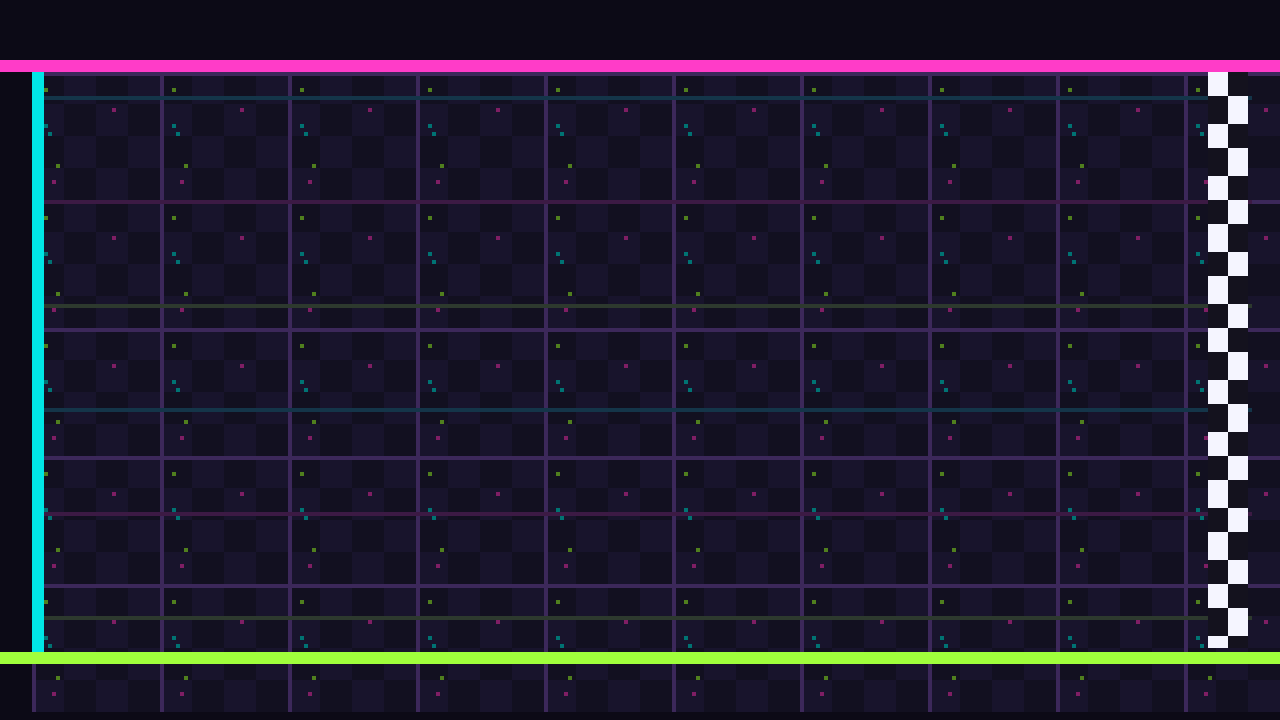
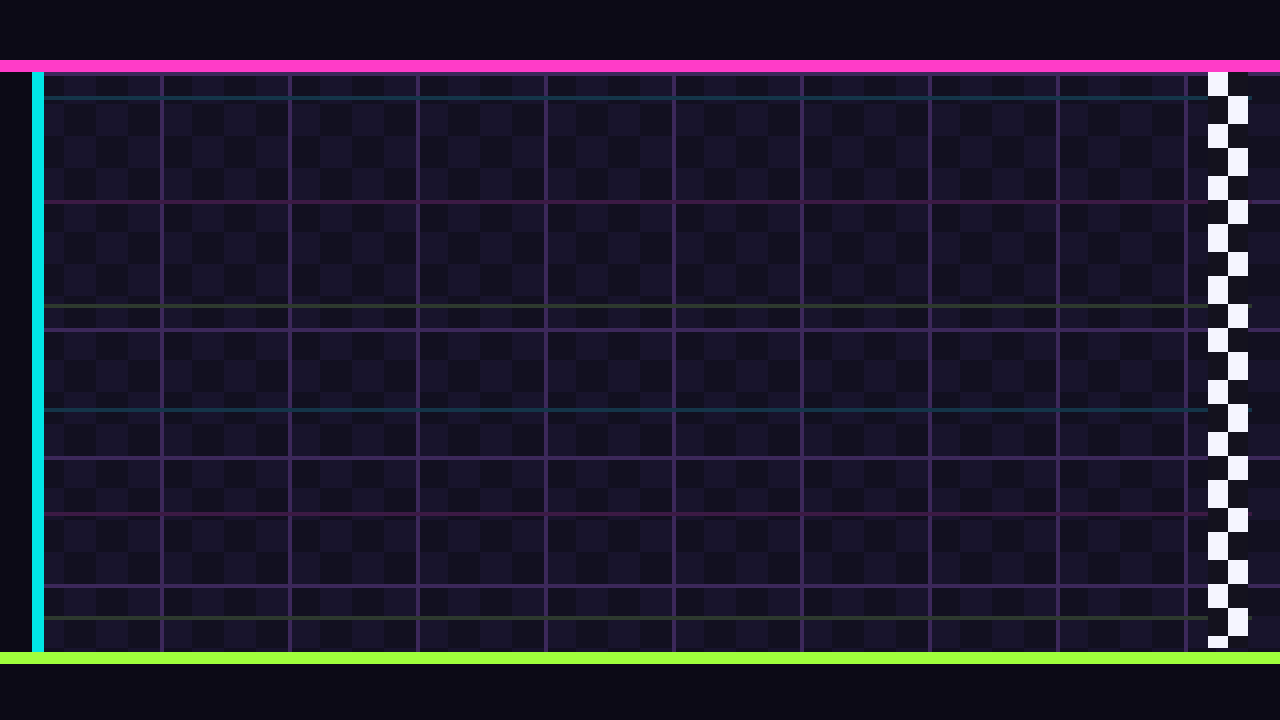
Clean up neon art: flat floor tile, solid arena below finish edge
- floor_tile: drop the random speckle highlights for a clean checker tile.
- arena_bg: fill solid wall colour below the finish-edge line (no floor
  rendered beneath it).
- Regenerate arena_bg/floor_tile/lobby_bg PNGs from gen_pack.py.

diff --git a/priv/static/images/themes/gen_pack.py b/priv/static/images/themes/gen_pack.py
@@ -223,14 +223,9 @@ def floor_tile(pal):
     for y in range(s):
         for x in range(s):
             d.point((x, y), fill=a if (x // 8 + y // 8) % 2 == 0 else b)
-    # grid seams (seamless: only top & left)
+    # grid seams (seamless: only top & left) — clean tile, no speckle
     d.line([(0, 0), (s, 0)], fill=pal["grid_line"])
     d.line([(0, 0), (0, s)], fill=pal["grid_line"])
-    # a couple of speckle highlights
-    rnd = random.Random(7)
-    for _ in range(6):
-        x, y = rnd.randrange(s), rnd.randrange(s)
-        d.point((x, y), fill=shade(pal["accent"][rnd.randrange(3)], .5))
     return img
 
 def finish_line(pal):
@@ -277,6 +272,8 @@ def arena_bg(pal):
     # top & bottom neon trim
     d.rectangle([0, pad_y-3, W, pad_y-1], fill=pal["accent"][1])
     d.rectangle([0, H-pad_y+1, W, H-pad_y+3], fill=pal["accent"][2])
+    # solid black below the finish-edge line (no floor beneath it)
+    d.rectangle([0, H-pad_y+4, W, H], fill=pal["wall"])
     img = up(img)
     img = _vignette(img, pal["vignette"])
     return img
@@ -413,4 +410,4 @@ def main():
 
 if __name__ == "__main__":
     main()
-
+